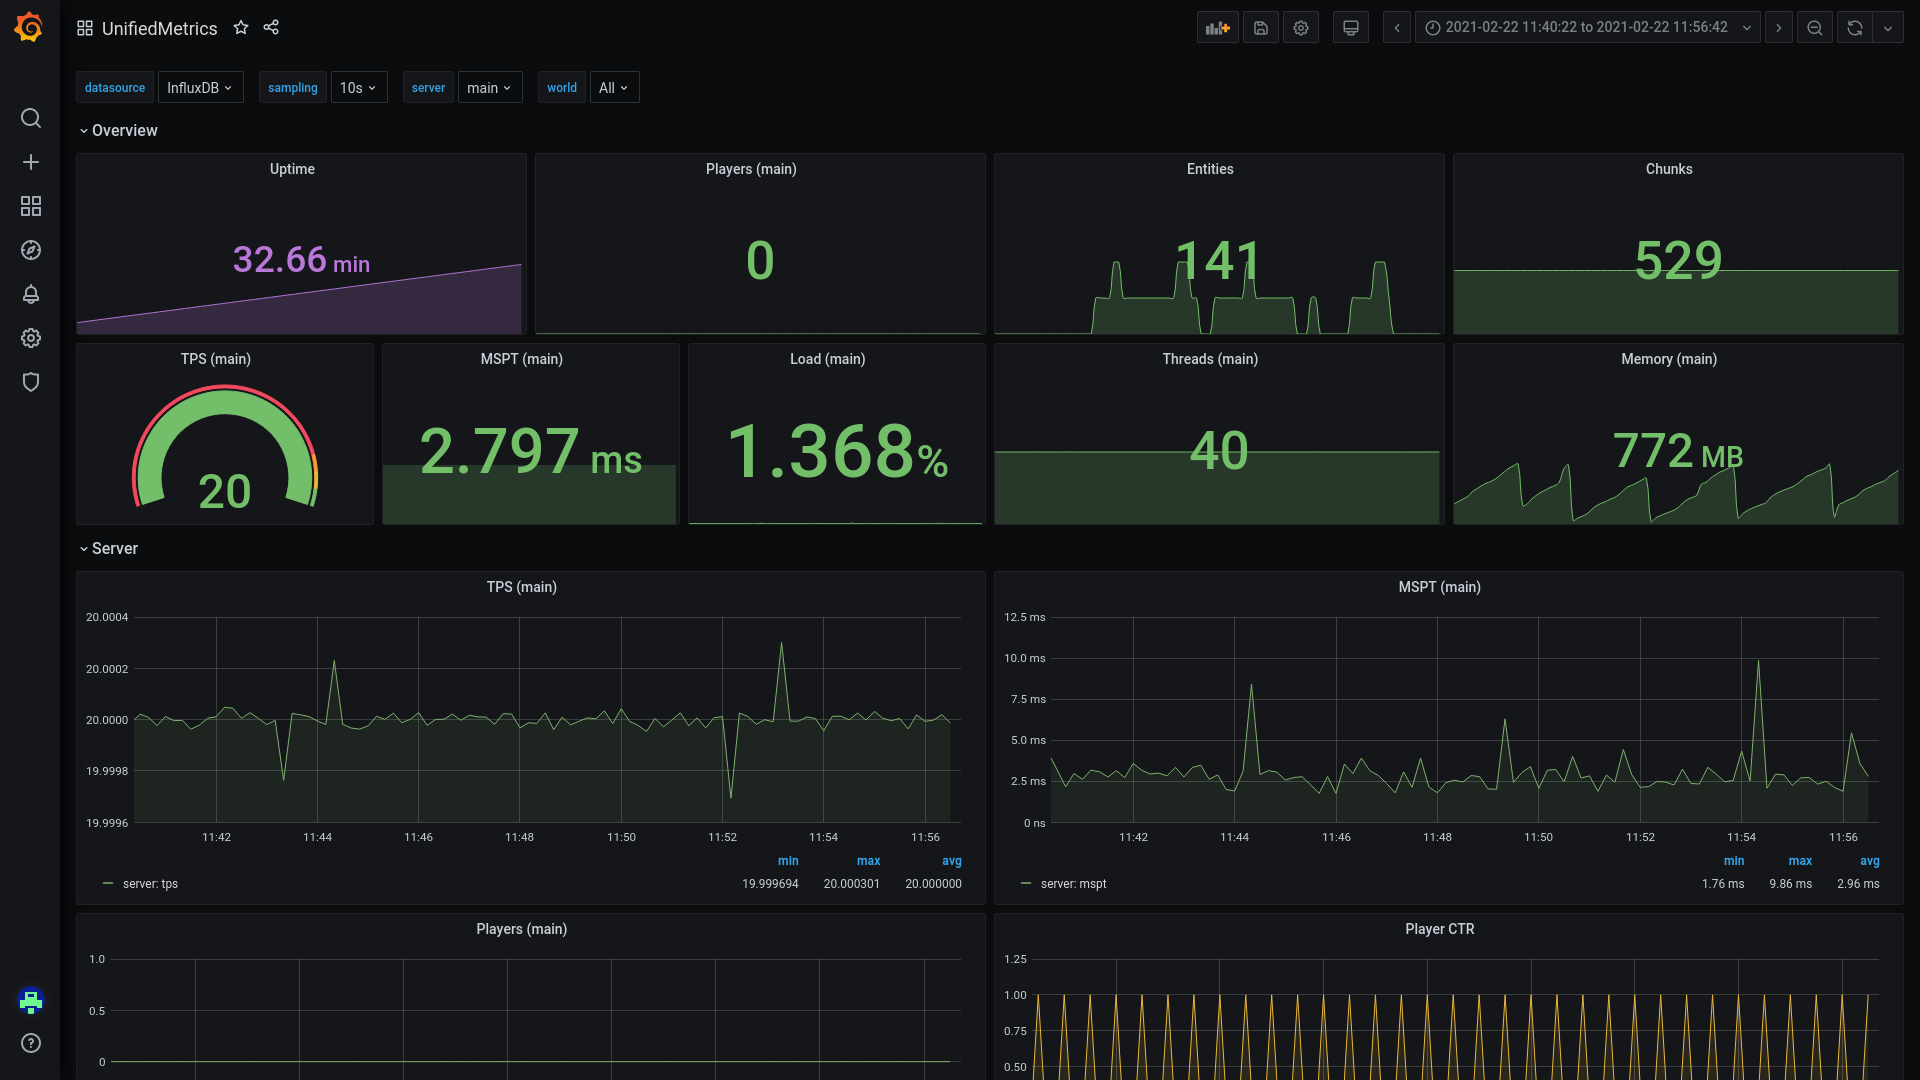
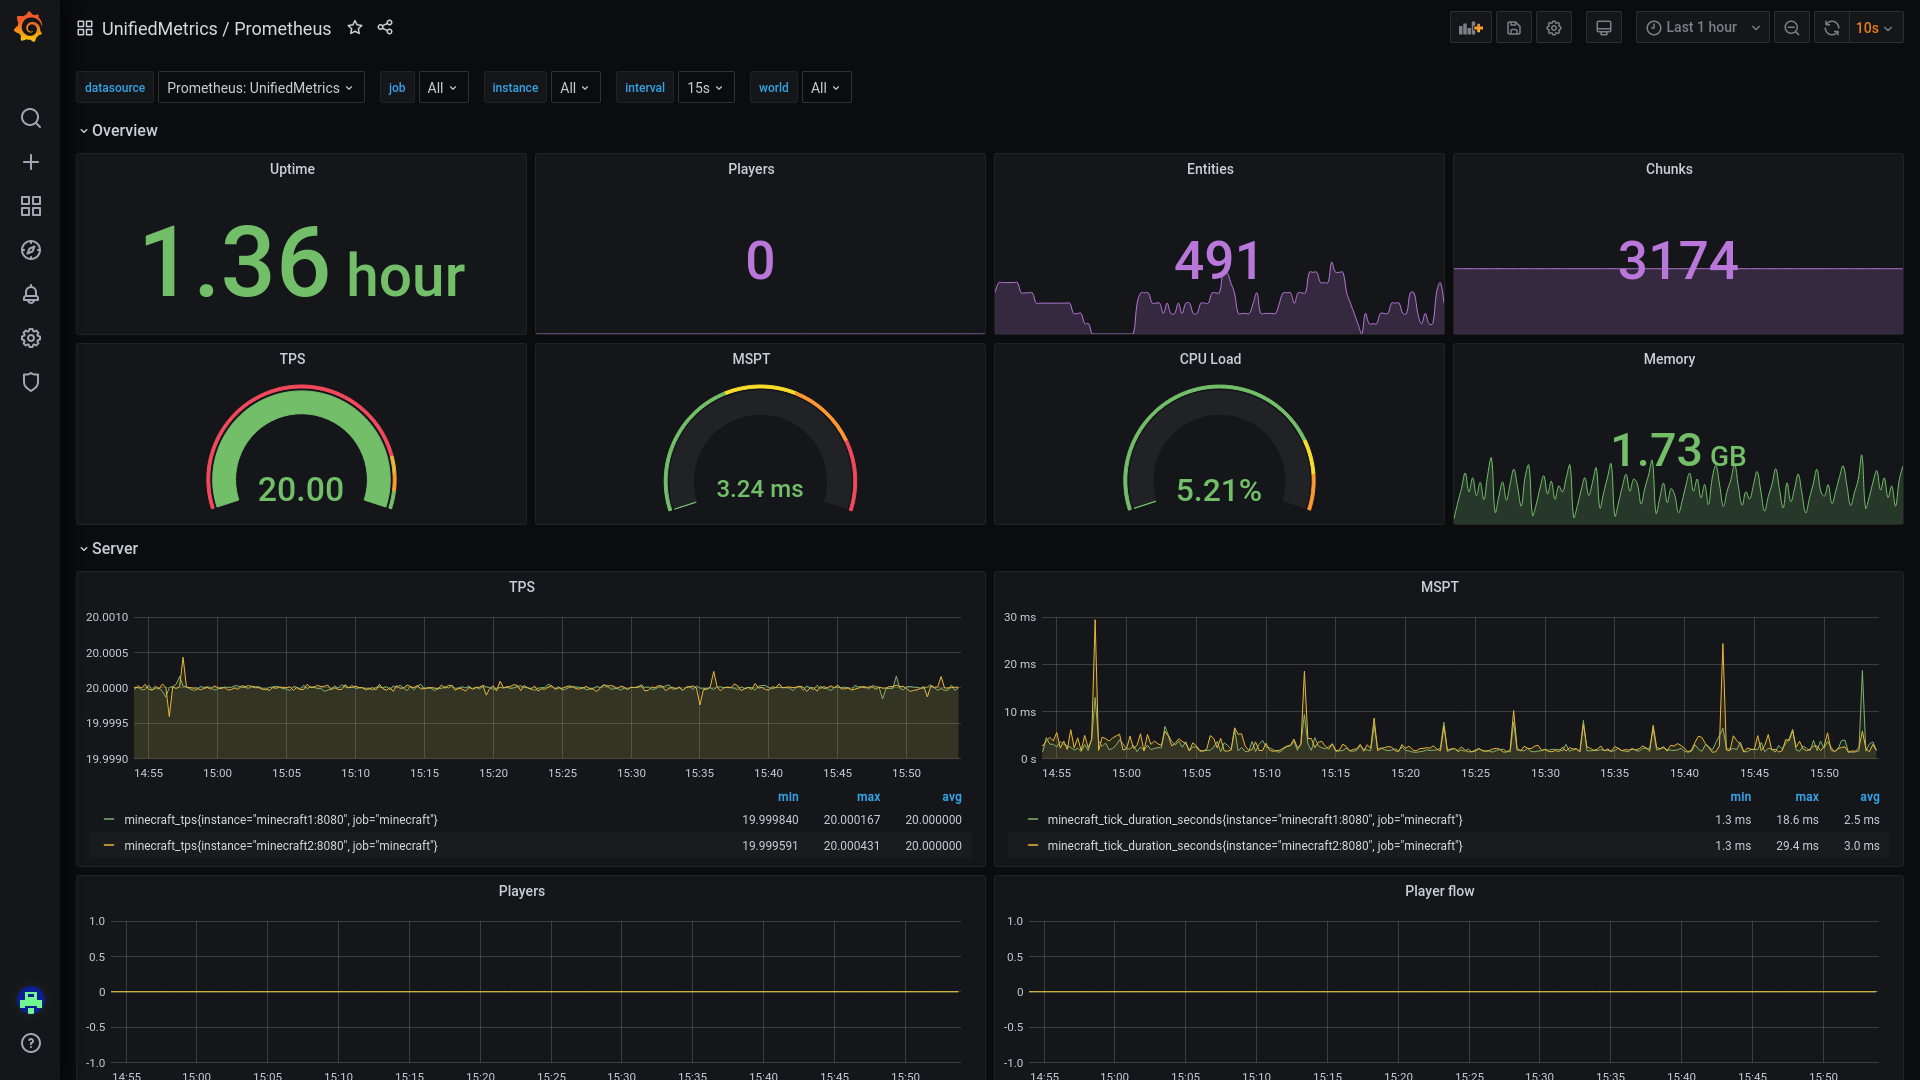
Fixed influx driver tag & updated README

diff --git a/drivers/influx/src/main/kotlin/dev/cubxity/plugins/metrics/influx/InfluxMetricsDriver.kt b/drivers/influx/src/main/kotlin/dev/cubxity/plugins/metrics/influx/InfluxMetricsDriver.kt
@@ -73,8 +73,8 @@ class InfluxMetricsDriver(private val api: UnifiedMetrics, private val config: C
         for (point in samples) {
             val influxPoint = InfluxPoint(point.name)
             influxPoint.addTags(point.tags)
+            influxPoint.addTag("server", api.serverName)
             influxPoint.addField("value", point.value)
-            influxPoint.addField("server", api.serverName)
 
             writeApi.writePoint(influxPoint)
         }

diff --git a/README.md b/README.md
@@ -31,10 +31,10 @@ Read the [wiki](https://github.com/Cubxity/UnifiedMetrics/wiki) for instructions
 
 ## Data visualization and analysis
 We recommend using [Grafana](https://grafana.com/) as it provides highly customizable diagrams.
-Grafana provides out-of-box support for InfluxDB.
+Grafana provides out-of-box support for Prometheus and InfluxDB.
 
-- Add InfluxDB datasource to Grafana
-- Import our [dashboard](https://grafana.com/grafana/dashboards/13860)
+- Add Prometheus/InfluxDB datasource to Grafana
+- Import our [Prometheus dashboard](https://grafana.com/grafana/dashboards/14017) or [InfluxDB dashboard](https://grafana.com/grafana/dashboards/13860)
 - Configure the dashboard and set up alerts *(optional)*
 
 ## API
